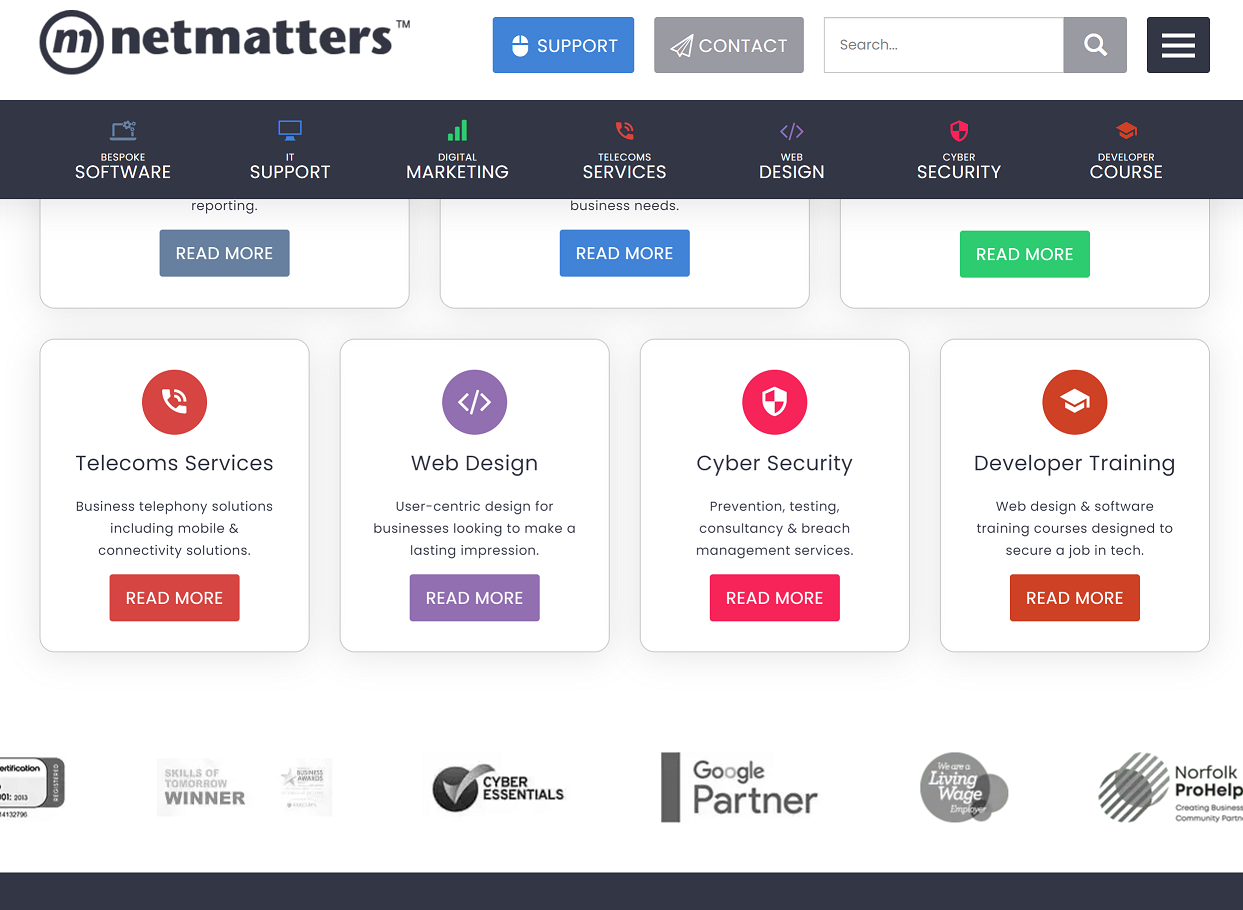
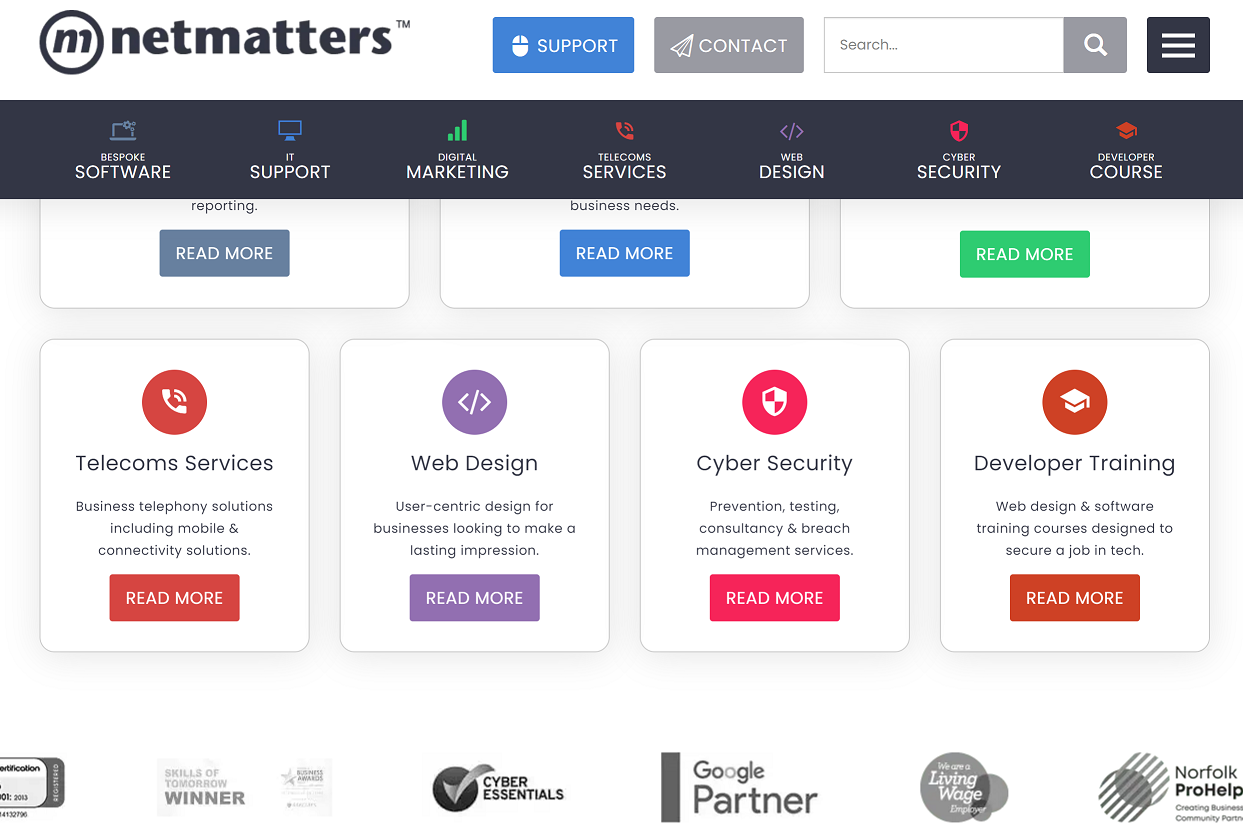
moved some old files out. changed posterpng to jpg to save space

diff --git a/about.php b/about.php
@@ -7,8 +7,8 @@
     ?>
 </head>
 <body>
-    <img id="background-image" src="https://jtickett.github.io/Portfolio/img/waterposter.png" alt="Background Image"></img>
-    <video id="background-video" src="img/waterUHD.mp4" autoplay="true" loop="true" muted="true" poster="img\waterposter.png"></video>
+    <img id="background-image" src="https://jtickett.github.io/Portfolio/img/waterposter.jpg" alt="Background Image"></img>
+    <video id="background-video" src="img/waterUHD.mp4" autoplay="true" loop="true" muted="true" poster="img\waterposter.jpg"></video>
 
     <div id="page-wrapper">
         

diff --git a/coding.php b/coding.php
@@ -7,8 +7,8 @@
     ?>
 </head>
 <body>
-    <img id="background-image" src="https://jtickett.github.io/Portfolio/img/waterposter.png" alt="Background Image"></img>
-    <video id="background-video" src="img/waterUHD.mp4" autoplay="true" loop="true" muted="true" poster="img\waterposter.png"></video>
+    <img id="background-image" src="https://jtickett.github.io/Portfolio/img/waterposter.jpg" alt="Background Image"></img>
+    <video id="background-video" src="img/waterUHD.mp4" autoplay="true" loop="true" muted="true" poster="img\waterposter.jpg"></video>
 
     <div id="page-wrapper">
         

diff --git a/scs.php b/scs.php
@@ -7,8 +7,8 @@
     ?>
 </head>
 <body>
-    <img id="background-image" src="https://jtickett.github.io/Portfolio/img/waterposter.png" alt="Background Image"></img>
-    <video id="background-video" src="img/waterUHD.mp4" autoplay="true" loop="true" muted="true" poster="img\waterposter.png"></video>
+    <img id="background-image" src="https://jtickett.github.io/Portfolio/img/waterposter.jpg" alt="Background Image"></img>
+    <video id="background-video" src="img/waterUHD.mp4" autoplay="true" loop="true" muted="true" poster="img\waterposter.jpg"></video>
 
     <div id="page-wrapper">
         
